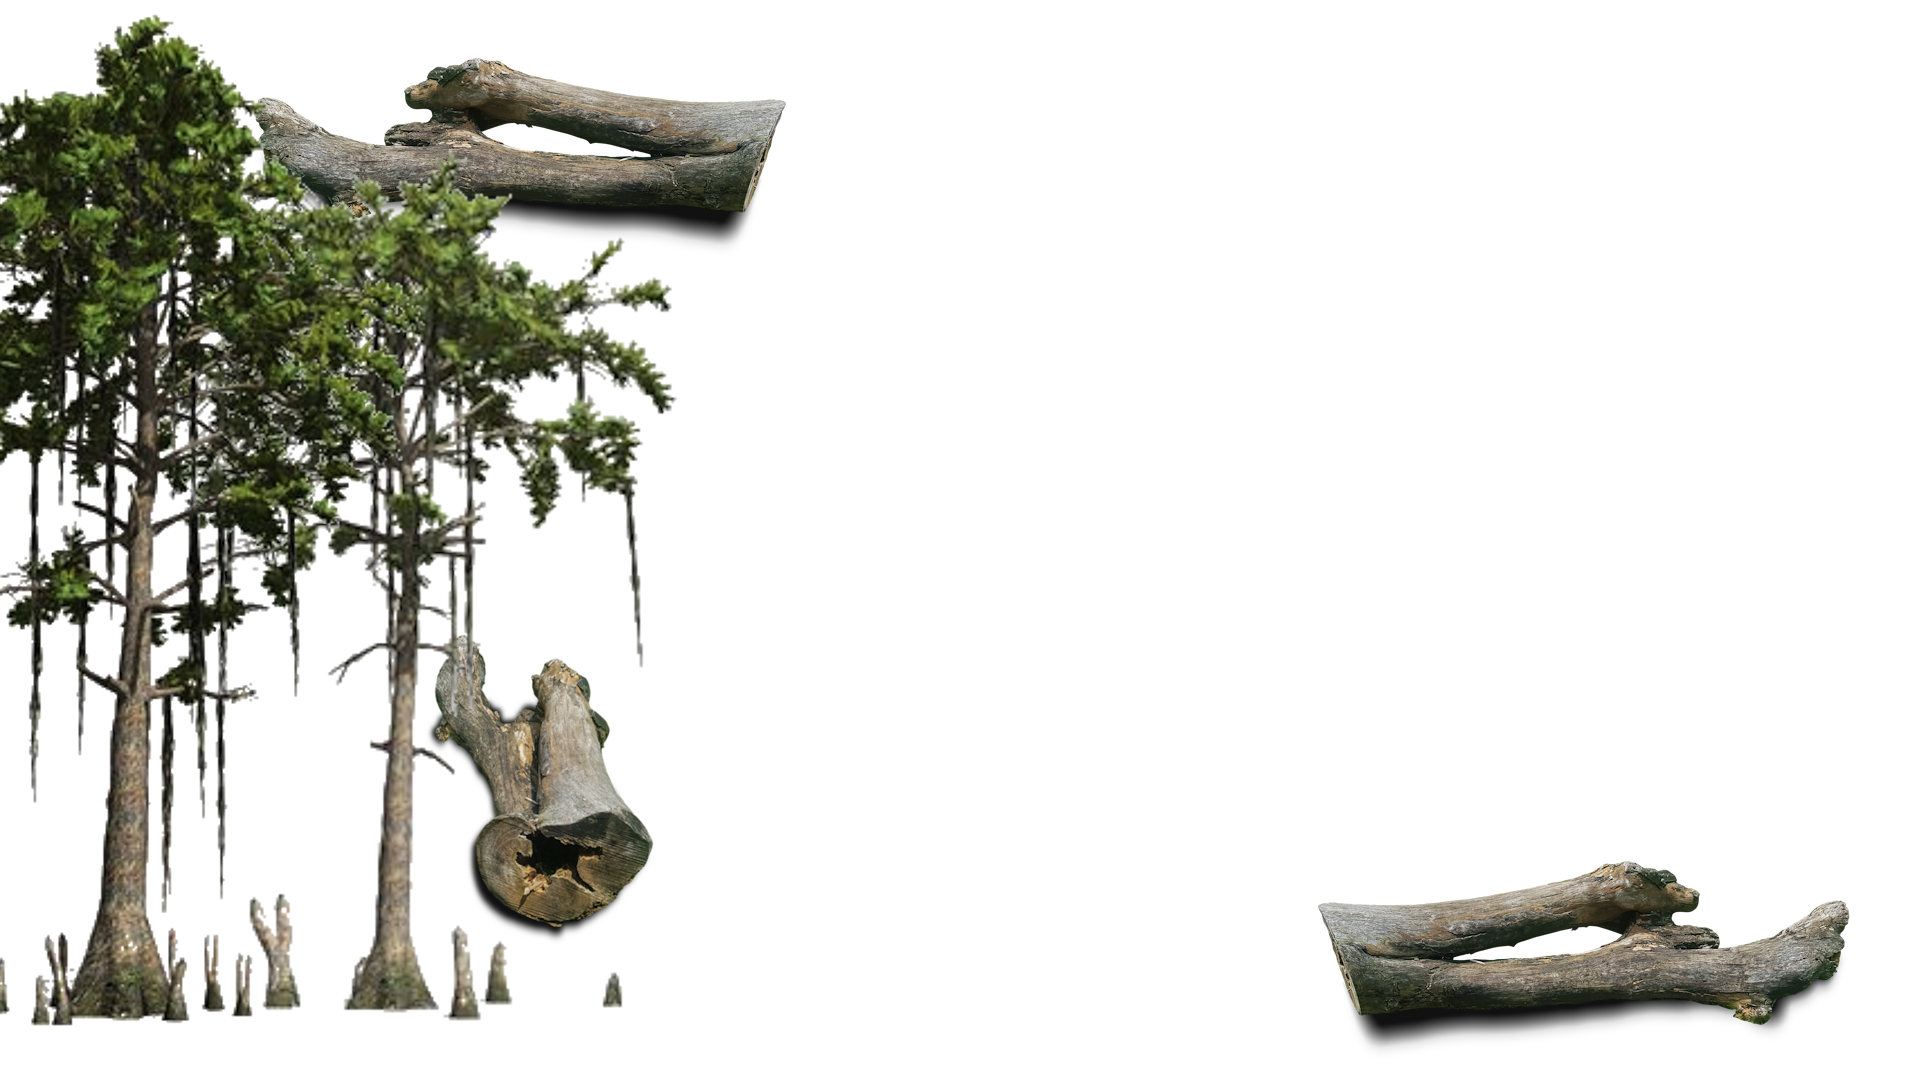
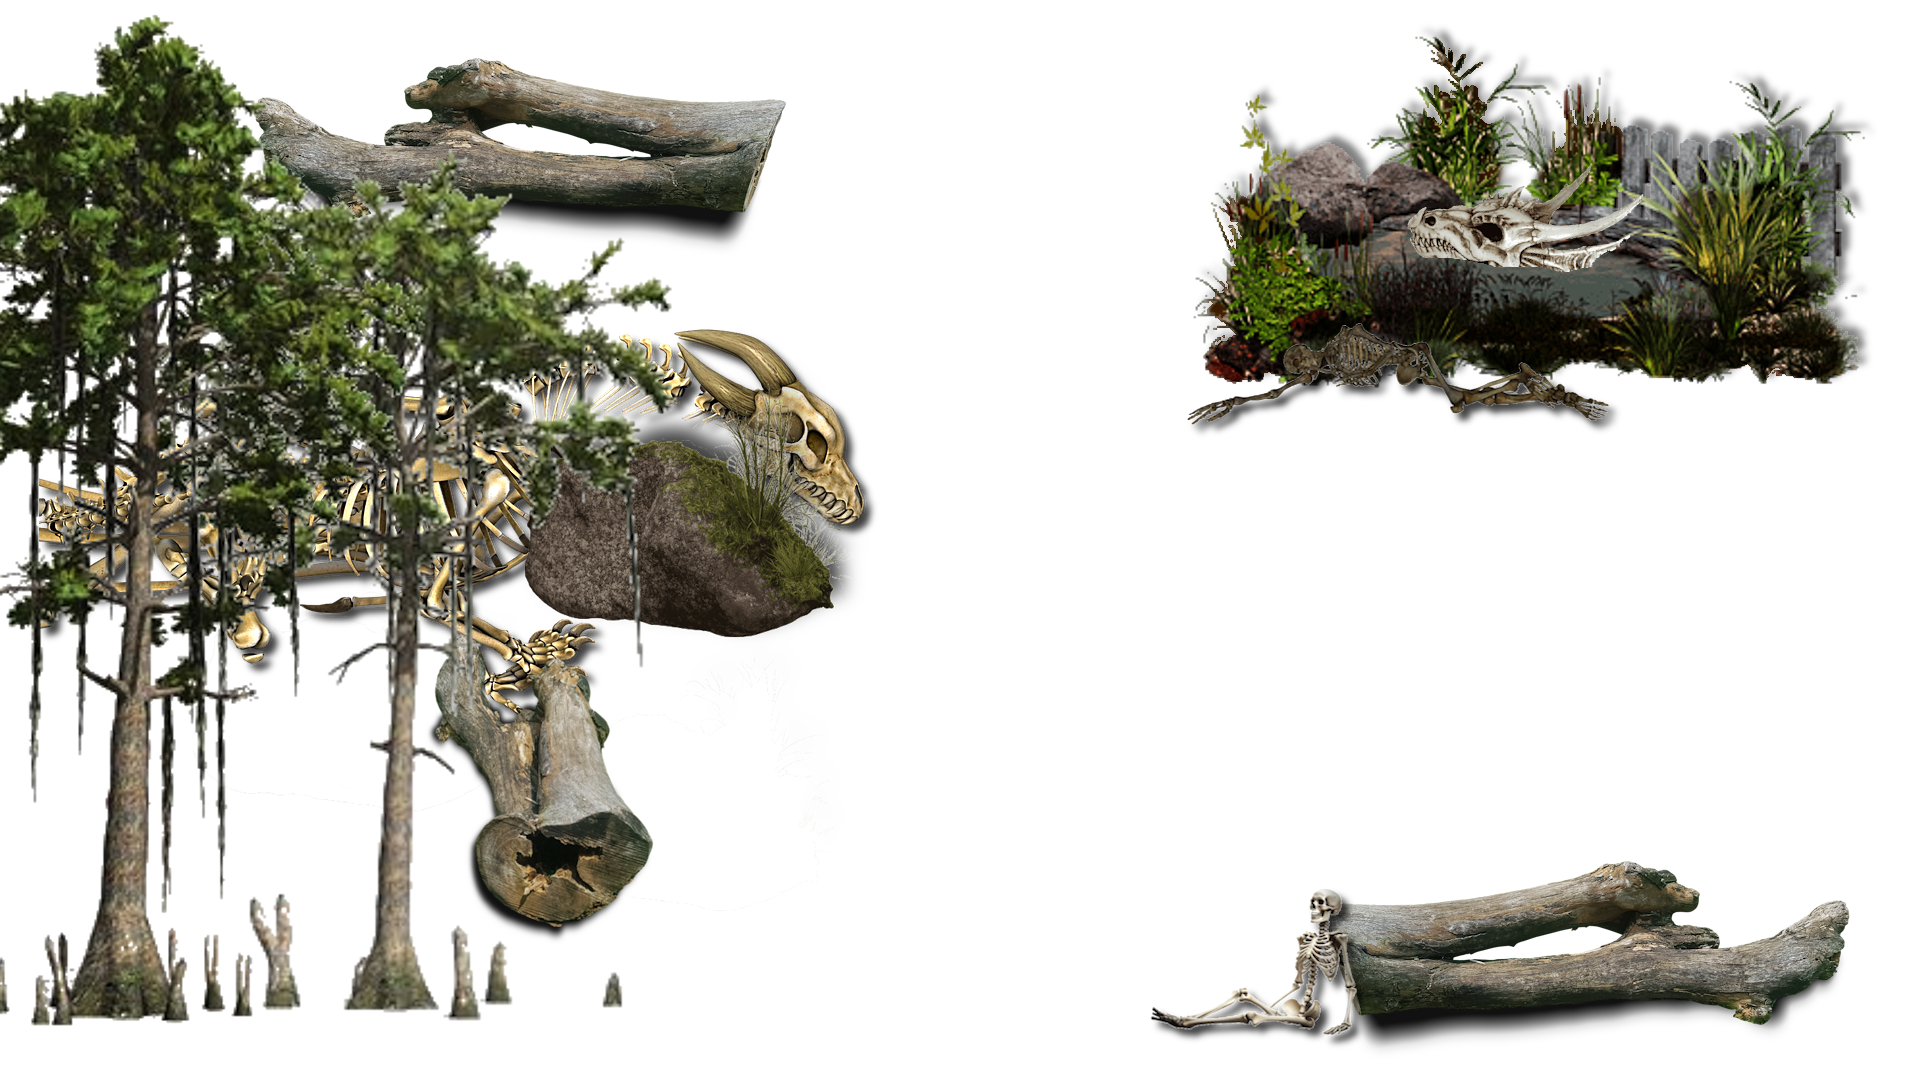
orc rider, hides my character if no chracters exist

diff --git a/public/test.html b/public/test.html
@@ -1,82 +1,82 @@
 <!DOCTYPE html>
-<html lang="en">
+<html lang="da">
 <head>
     <meta charset="UTF-8">
     <meta name="viewport" content="width=device-width, initial-scale=1.0">
-    <title>Medieval Image Uploader</title>
+    <title>Middelalder Karakter Uploader</title>
     <link rel="stylesheet" href="css/uploads.css">
     <link href="https://fonts.googleapis.com/css2?family=IM+Fell+English+SC&family=UnifrakturMaguntia&display=swap" rel="stylesheet">
 </head>
 <body>
     <div class="container">
         <!-- Section to display the uploaded image and details -->
-        <h2>Uploaded Characters:</h2>
+        <h2 class="din-karakterer-text">Din Karakterer:</h2>
         <div id="uploadedItems"></div> <!-- This is where the uploaded objects will be displayed -->
 
         <!-- Edit Form Section, hidden by default -->
         <div id="editFormContainer" style="display:none;">
-            <h2>Edit Character</h2>
+            <h2>Rediger Karakter</h2>
             <form id="editForm" enctype="multipart/form-data">
                 <input type="hidden" id="editFilePath"> <!-- Hidden input to store filePath for editing -->
 
                 <label for="editNavn">Navn:</label>
-                <input type="text" name="editNavn" id="editNavn" placeholder="Enter character name" required><br><br>
+                <input type="text" name="editNavn" id="editNavn" placeholder="Indtast karakterens navn" required><br><br>
 
                 <label for="editRace">Race:</label>
-                <input type="text" name="editRace" id="editRace" placeholder="Enter character race" required><br><br>
+                <input type="text" name="editRace" id="editRace" placeholder="Indtast karakterens race" required><br><br>
 
                 <label for="editKlasse">Klasse:</label>
-                <input type="text" name="editKlasse" id="editKlasse" placeholder="Enter character class" required><br><br>
+                <input type="text" name="editKlasse" id="editKlasse" placeholder="Indtast karakterens klasse" required><br><br>
 
                 <label for="editStyrker">Styrker:</label>
-                <input type="text" name="editStyrker" id="editStyrker" placeholder="Enter character strengths" required><br><br>
+                <input type="text" name="editStyrker" id="editStyrker" placeholder="Indtast karakterens styrker" required><br><br>
 
                 <label for="editSvageheder">Svageheder:</label>
-                <input type="text" name="editSvageheder" id="editSvageheder" placeholder="Enter character weaknesses" required><br><br>
+                <input type="text" name="editSvageheder" id="editSvageheder" placeholder="Indtast karakterens svagheder" required><br><br>
 
                 <label for="editMereOm">Mere om:</label>
-                <textarea name="editMereOm" id="editMereOm" rows="4" placeholder="Tell more about the character" required></textarea><br><br>
+                <textarea name="editMereOm" id="editMereOm" rows="4" placeholder="Fortæl mere om karakteren" required></textarea><br><br>
 
-                <label for="editImage">Change Image (optional):</label>
+                <label for="editImage">Skift billede (valgfrit):</label>
                 <input type="file" name="editImage" id="editImage" accept="image/*"><br><br>
 
-                <img id="editImagePreview" src="#" alt="Current Image" style="display:none; max-width: 200px;"><br><br>
+                <img id="editImagePreview" src="#" alt="Nuværende billede" style="display:none; max-width: 200px;"><br><br>
 
-                <button type="submit">Update</button>
-                <button type="button" onclick="document.getElementById('editFormContainer').style.display='none'">Cancel</button>
+                <button type="submit">Opdater</button>
+                <button type="button" onclick="document.getElementById('editFormContainer').style.display='none'">Annuller</button>
             </form>
         </div>
 
-        <h1>Upload Your Character's Portrait</h1>
+        <h1>Lav din karakter!</h1>
         <!-- Form to upload image and character data -->
         <form id="uploadForm" enctype="multipart/form-data">
-            <label for="image">Select Image:</label>
+            <label for="image">Vælg billede:</label>
             <input type="file" name="image" id="image" accept="image/*" required><br><br>
 
             <label for="Navn">Navn:</label>
-            <input type="text" name="Navn" id="Navn" placeholder="Enter character name" required><br><br>
+            <input type="text" name="Navn" id="Navn" placeholder="Indtast karakterens navn" required><br><br>
 
             <label for="Race">Race:</label>
-            <input type="text" name="Race" id="Race" placeholder="Enter character race" required><br><br>
+            <input type="text" name="Race" id="Race" placeholder="Indtast karakterens race" required><br><br>
 
             <label for="Klasse">Klasse:</label>
-            <input type="text" name="Klasse" id="Klasse" placeholder="Enter character class" required><br><br>
+            <input type="text" name="Klasse" id="Klasse" placeholder="Indtast karakterens klasse" required><br><br>
 
             <label for="Styrker">Styrker:</label>
-            <input type="text" name="Styrker" id="Styrker" placeholder="Enter character strengths" required><br><br>
+            <input type="text" name="Styrker" id="Styrker" placeholder="Indtast karakterens styrker" required><br><br>
 
-            <label for="Svageheder">Svageheder:</label>
-            <input type="text" name="Svageheder" id="Svageheder" placeholder="Enter character weaknesses" required><br><br>
+            <label for="Svageheder">Svagheder:</label>
+            <input type="text" name="Svageheder" id="Svageheder" placeholder="Indtast karakterens svagheder" required><br><br>
 
             <label for="MereOm">Mere om:</label>
-            <textarea name="MereOm" id="MereOm" rows="4" placeholder="Tell more about the character" required></textarea><br><br>
+            <textarea name="MereOm" id="MereOm" rows="4" placeholder="Fortæl mere om karakteren" required></textarea><br><br>
 
             <button type="submit">Upload</button>
         </form>
 
         <!-- Image Preview Section -->
         <div id="imagePreview">
-            <img id="preview" src="#" alt="Image Preview" style="display:none;">
+            <img id="preview" src="#" alt="Billedeksempel" style="display:none;">
         </div>
 
 
@@ -86,4 +86,5 @@
     <script src="js/script.js"></script>
 </body>
 </html>
+
 

diff --git a/public/js/script.js b/public/js/script.js
@@ -1,3 +1,15 @@
+// Function to update the visibility of the header
+function updateHeaderVisibility() {
+    const uploadedItems = document.getElementById('uploadedItems');
+    const header = document.querySelector('.din-karakterer-text');
+
+    if (uploadedItems.children.length > 0) {
+        header.style.display = 'block'; // Show the header if there are uploaded items
+    } else {
+        header.style.display = 'none'; // Hide the header if there are no uploaded items
+    }
+}
+
 // Image preview functionality
 document.querySelector('input[type="file"]').addEventListener('change', function (event) {
     const file = event.target.files[0];
@@ -34,6 +46,7 @@ document.getElementById('uploadForm').addEventListener('submit', async function 
             displayUploadedItem(result);
             this.reset(); // Clear the form fields after successful upload
             clearImagePreview(); // Clear the image preview after successful upload
+            updateHeaderVisibility(); // Update header visibility after uploading a new item
         } else {
             alert('Error uploading file!');
         }
@@ -110,11 +123,12 @@ function displayUploadedItem(data) {
 
     // Append the new item to the uploadedItems section
     uploadedItems.appendChild(itemDiv);
+    updateHeaderVisibility(); // Update header visibility after displaying an uploaded item
 }
 
 // Function to handle deletion of an uploaded item
 async function deleteUploadedItem(itemDiv, filePath) {
-    if (confirm('Are you sure you want to delete this item?')) {
+    if (confirm('Er du sikker på, at du vil slette denne genstand?')) {
         try {
             const response = await fetch(`/delete?filePath=${encodeURIComponent(filePath)}`, {
                 method: 'DELETE'
@@ -123,6 +137,7 @@ async function deleteUploadedItem(itemDiv, filePath) {
             if (response.ok) {
                 // Remove the item from the DOM
                 itemDiv.remove();
+                updateHeaderVisibility(); // Update header visibility after deleting an item
             } else {
                 alert('Error deleting item!');
             }
@@ -179,19 +194,18 @@ document.getElementById('editForm').addEventListener('submit', async function (e
         });
 
         if (response.ok) {
-            alert('Item updated successfully!');
+            alert('Genstand opdateret!');
             document.getElementById('editFormContainer').style.display = 'none'; // Hide the edit form
             document.getElementById('uploadedItems').innerHTML = ''; // Clear the list
             loadUploadedItems(); // Reload the list with updated data
         } else {
-            alert('Error updating item.');
+            alert('Fejl ved opdatering af genstand.');
         }
     } catch (err) {
         console.error('Error:', err);
-        alert('An error occurred while updating the item.');
+        alert('En fejl opstod under opdatering af genstanden.');
     }
 });
-
 
 // Function to load all previously uploaded items when the page loads
 async function loadUploadedItems() {
@@ -202,6 +216,9 @@ async function loadUploadedItems() {
         items.forEach(item => {
             displayUploadedItem(item); // Display each uploaded item
         });
+
+        // Update header visibility after loading items
+        updateHeaderVisibility();
     } catch (err) {
         console.error('Error fetching uploaded items:', err);
     }
@@ -210,5 +227,6 @@ async function loadUploadedItems() {
 // Load uploaded items on page load
 window.onload = loadUploadedItems;
 
-// Initially hide the edit form
+// Initially hide the edit form and the header
 document.getElementById('editFormContainer').style.display = 'none';
+document.querySelector('.din-karakterer-text').style.display = 'none';

diff --git a/public/css/styles.css b/public/css/styles.css
@@ -129,6 +129,7 @@ button:hover {
     top: 50%;
     left: -400px;
     transform: translateY(-50%);
+    z-index: 1003;
 }
 
 .skov {
@@ -141,13 +142,25 @@ button:hover {
     background-size: cover;
 }
 
+.fight-container {
+    position: absolute;
+    top: 120vh;
+}
+
+.orc-rider {
+    position: absolute;
+    top: 130vh;
+    right: 15%;
+}
+
+
 .ogre {
     position: relative;
 }
 
 .beaten-knight {
     position: relative;
-    right: 5%;
+    right: 15%;
 }
 
 .farm-fg {
@@ -165,6 +178,17 @@ button:hover {
     background-position: center;
     background-size: cover;
 }
+
+.forestswamp-fg {
+    position: relative;
+    z-index: 1000;
+    height: 100%;
+    width: 100%;
+    background-image: url(/assets/fg/forest_swamp_transition_foreground.png);
+    background-position: center;
+    background-size: cover;
+}
+
 
 .sump {
     background-image: url(/assets/bg/swamp_background.png);

diff --git a/public/index.html b/public/index.html
@@ -41,6 +41,7 @@
        
       </div>
       <section class="skovsump">
+        <div class="forestswamp-fg"></div>
         <div class="dragon-container">
           <img class="dragon" src="/assets/sprites/dragon/dragon.gif"></img>
         </div>
@@ -48,6 +49,7 @@
           <img src="assets/sprites/ogre.gif" alt="" class="ogre">
           <img src="assets/sprites/beaten-knight.gif" alt="" class="beaten-knight">
         </div>
+        <img src="assets/sprites/orc_rider.gif" class="orc-rider" alt="">
           <!-- <div class="fogwrapper">
               <div id="foglayer_01start" class="fogstart">
                   <div class="image01start"></div>

diff --git a/public/css/uploads.css b/public/css/uploads.css
@@ -1,8 +1,11 @@
+@import url('https://fonts.googleapis.com/css2?family=Germania+One&display=swap');
+
 /* Medieval background and fonts */
 body {
     background: url('https://www.transparenttextures.com/patterns/aged-paper.png');
     font-family: 'IM Fell English SC', serif;
     color: #3b2314;
+    background-color: #000000;
     padding: 20px;
     margin: 0;
 }
@@ -18,7 +21,7 @@ body {
 }
 
 h1, h2 {
-    font-family: 'UnifrakturMaguntia', cursive;
+    font-family: 'Germania One', cursive;
     text-align: center;
     color: #462304;
     font-size: 2.5em;
